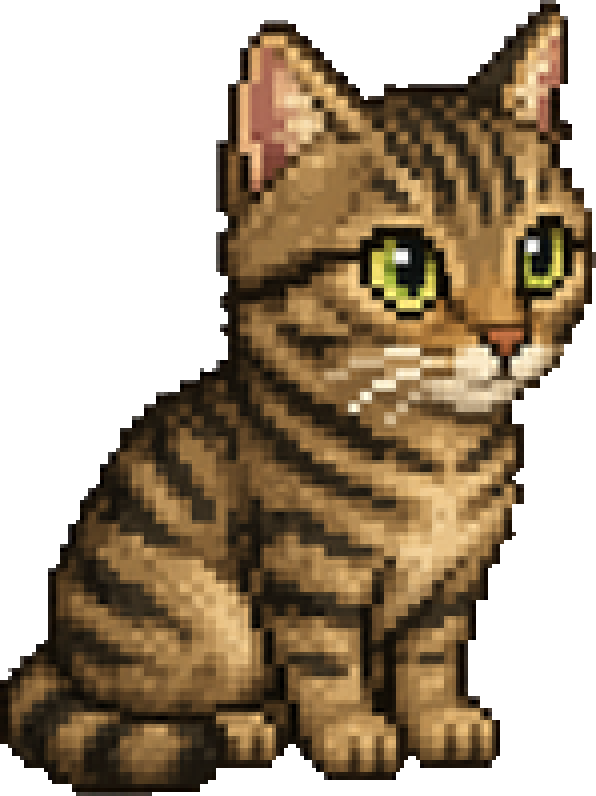
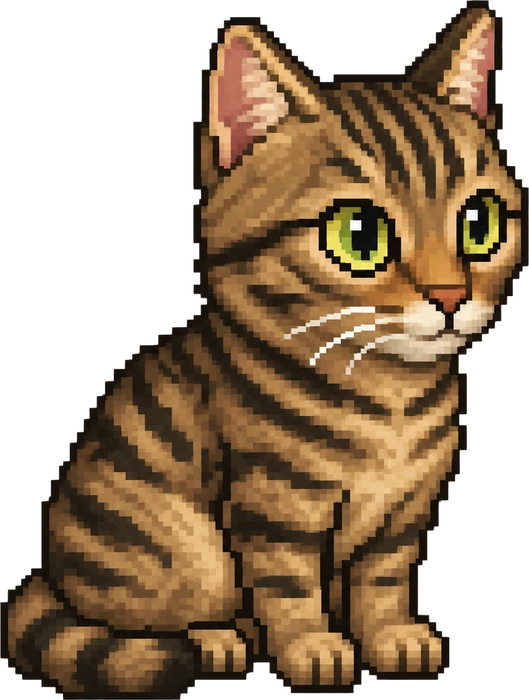
Puiutu site: higher-res Puiutu sprite redrawn 1:1, no white fringe

Changed region(s): [[0.0, 0.0, 1.0, 1.0]]

diff --git a/site/style.css b/site/style.css
@@ -74,7 +74,7 @@ section{position:relative;padding:120px 0}
 .story{display:flex;flex-wrap:wrap;align-items:center;justify-content:center;gap:40px;max-width:1180px;margin:0 auto;padding:120px 24px}
 .story .wrap{flex:1 1 480px;padding:0}
 .puiutu-real{flex:0 1 300px;text-align:center}
-.puiutu-real img{width:298px;image-rendering:pixelated;filter:drop-shadow(0 14px 10px rgba(0,0,0,.5))}
+.puiutu-real img{width:290px;filter:drop-shadow(0 14px 10px rgba(0,0,0,.5))}
 .bob{animation:bob 3.4s ease-in-out infinite}
 @keyframes bob{50%{transform:translateY(-8px)}}
 .note{font-family:var(--px);color:var(--cream);background:rgba(0,0,0,.62);border-radius:10px;padding:10px 16px;

diff --git a/site/index.html b/site/index.html
@@ -67,7 +67,7 @@
         <div class="stack">
           <img class="polaroid back" src="art/real_puiutu_kitten.webp" alt="Puiutu as a kitten">
           <img class="polaroid front" src="art/real_puiutu.webp" alt="Puiutu, the real cat">
-          <img class="ingame px" src="art/puiutu.webp" alt="Puiutu in the game">
+          <img class="ingame" src="art/puiutu.webp" alt="Puiutu in the game">
         </div>
         <figcaption><b>Puiutu</b><span>Plays himself. Did not read the script.</span></figcaption>
       </figure>

diff --git a/site/make_puiutu_crisp.py b/site/make_puiutu_crisp.py
@@ -22,5 +22,22 @@ def crisp(src, name, light_cut=150):
     print(name, out.size)
 
 
-crisp('puiutu/sprite_puiutu.png', 'puiutu.webp')
 crisp('npcs/sprite_tomy.png', 'tomy.webp', light_cut=250)
+
+
+def hd_cutout(src, name, h=700):
+    """ChatGPT redraw at higher res: keep only the main shape, crop, save."""
+    from scipy import ndimage as nd
+    im = np.array(Image.open(os.path.join(R, src)).convert('RGBA'))
+    m = im[..., 3] > 40
+    lab, n = nd.label(nd.binary_dilation(m, iterations=2))
+    keep = lab == (np.argmax(nd.sum(m, lab, range(1, n + 1))) + 1)
+    im[..., 3] = np.where(keep & m, im[..., 3], 0)
+    out = Image.fromarray(im)
+    out = out.crop(out.getbbox())
+    out = out.resize((round(out.width * h / out.height), h), Image.LANCZOS)
+    out.save(os.path.join(R, 'site/art', name), 'WEBP', quality=92)
+    print(name, out.size)
+
+
+hd_cutout('site/art_src/puiutu_hd.png', 'puiutu.webp')

diff --git a/site/build_assets.py b/site/build_assets.py
@@ -49,7 +49,7 @@ for src, name in [
 put('ui/menu_sunset.jpg', 'sunset.webp', 1920, q=82)
 
 # ChatGPT key art: hero.png (shadow kings poster), secret.png (the lab under the bank)
-for f in os.listdir(os.path.join(R, 'site', 'art_src')):
+for f in ['hero.png', 'secret.png']:
     put(os.path.join('site', 'art_src', f), os.path.splitext(f)[0] + '.webp', 2000, q=86)
 
 # animated sprite sheets
